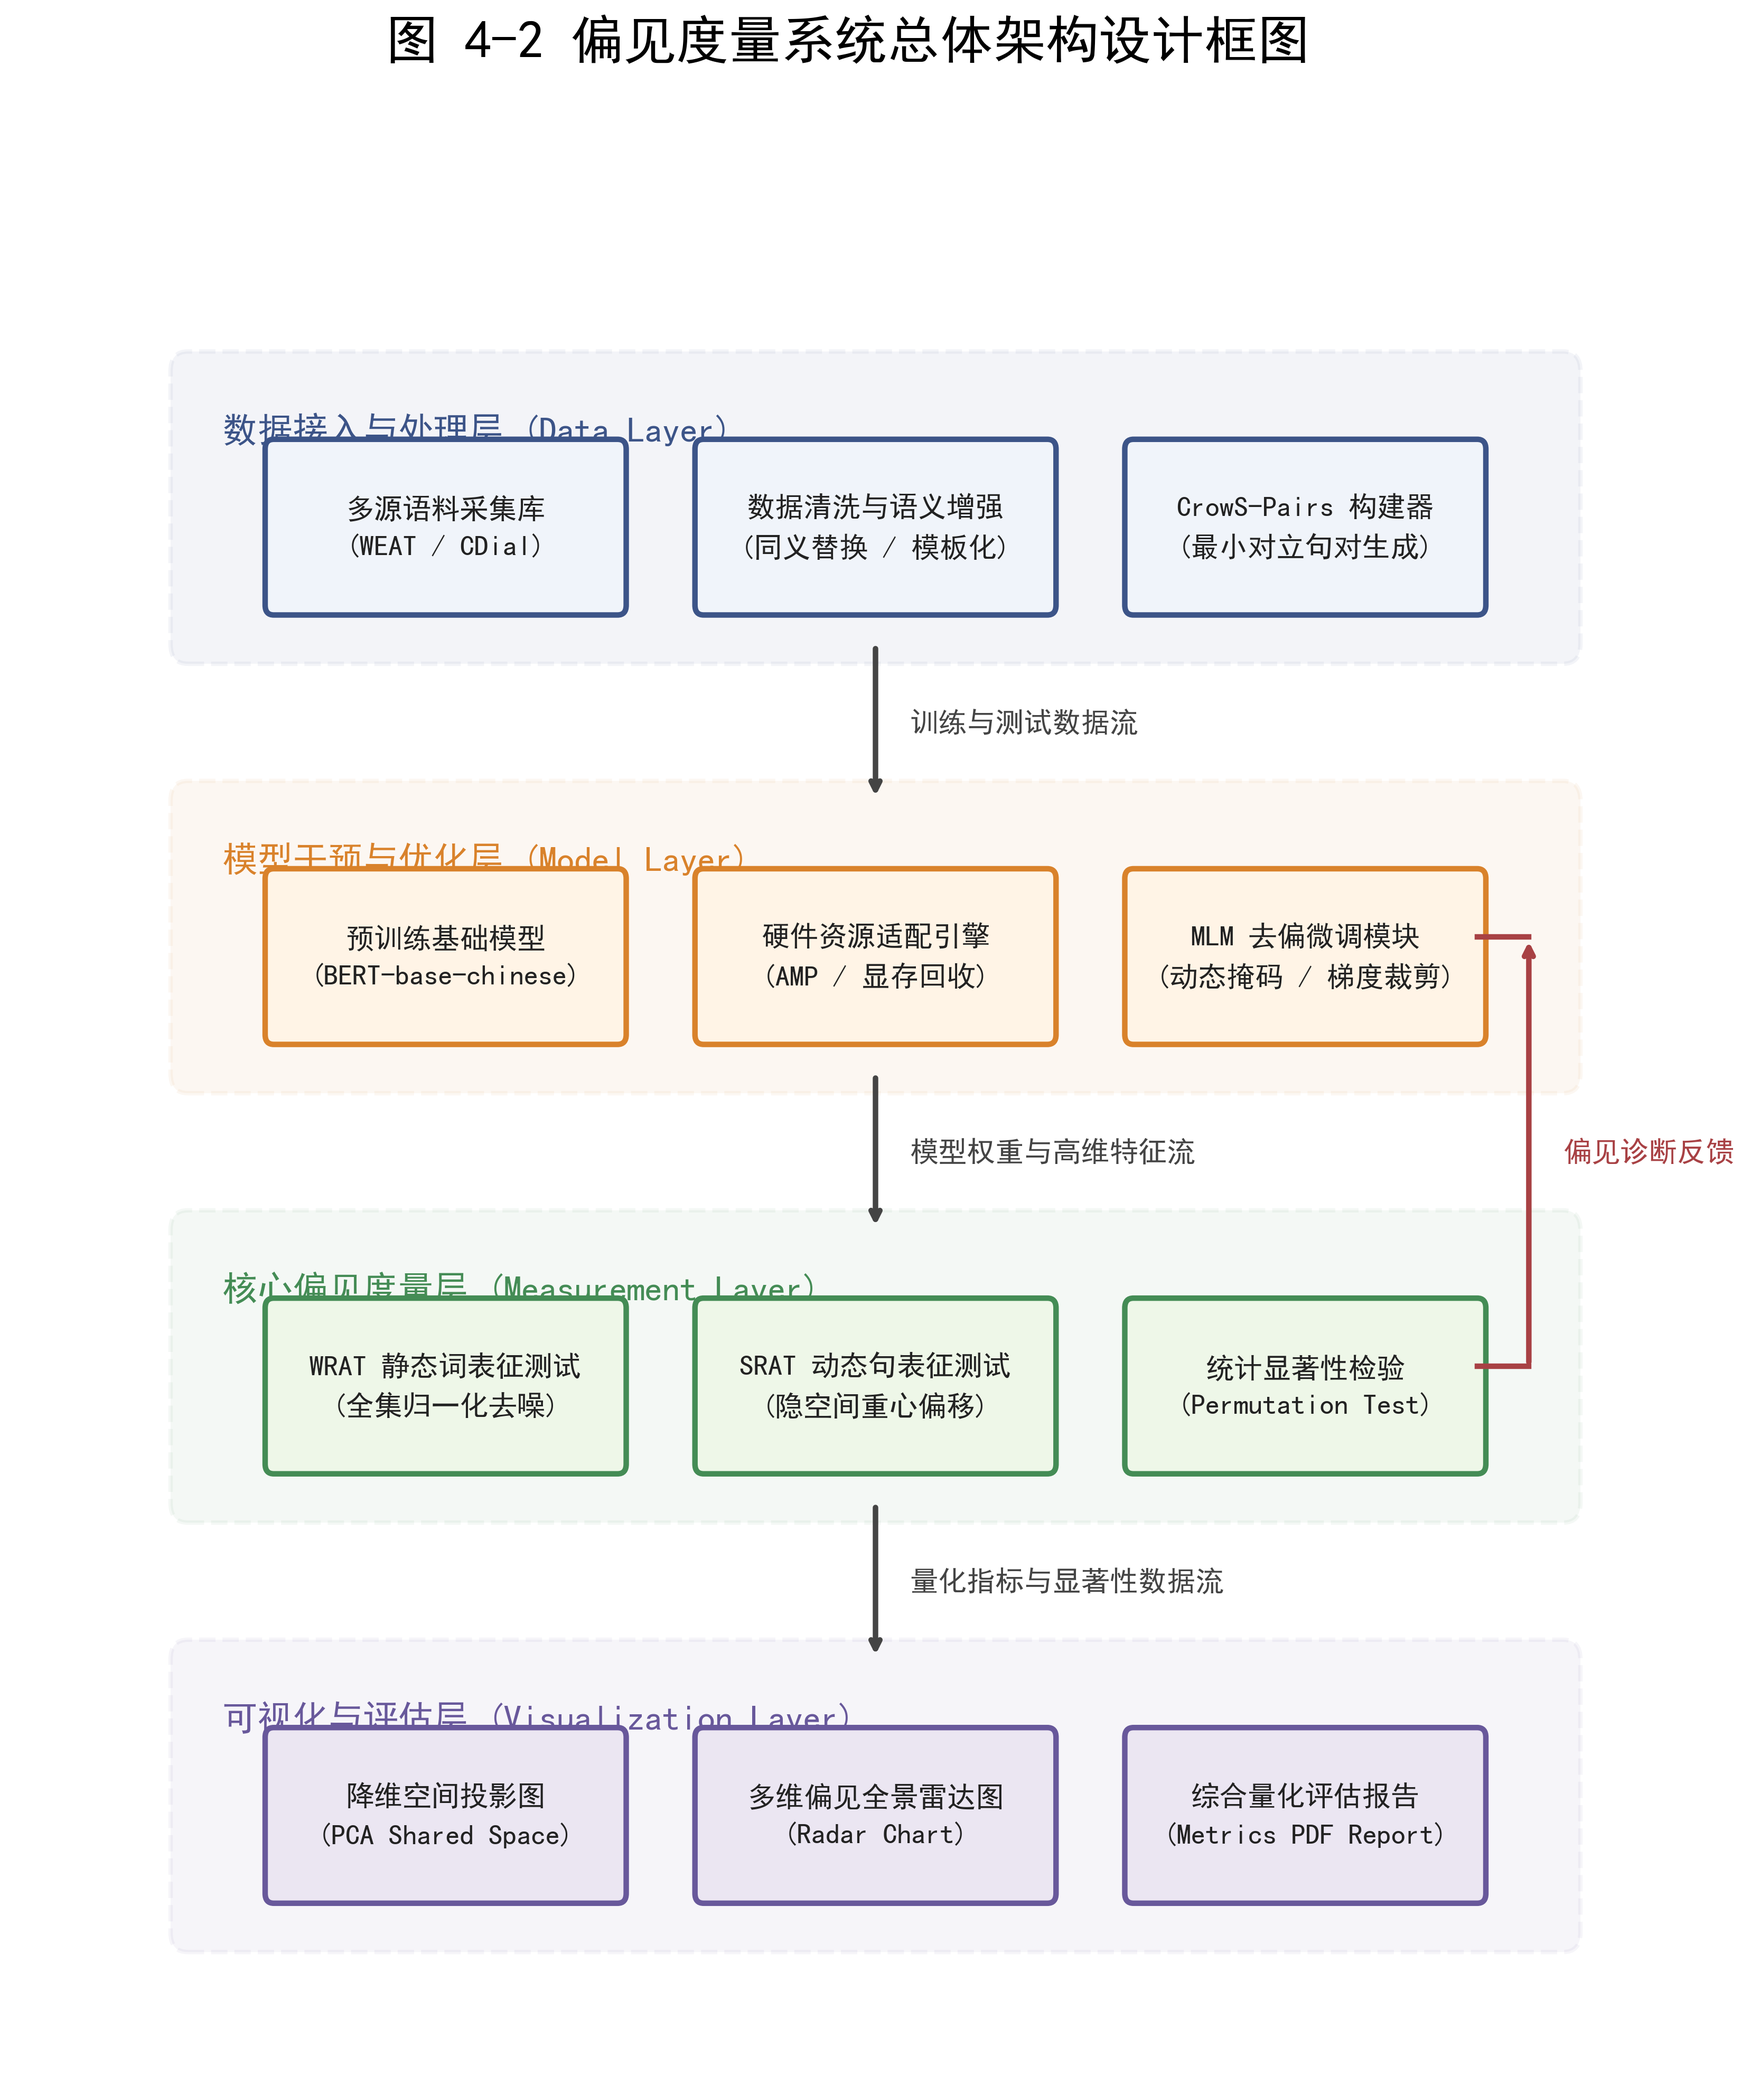
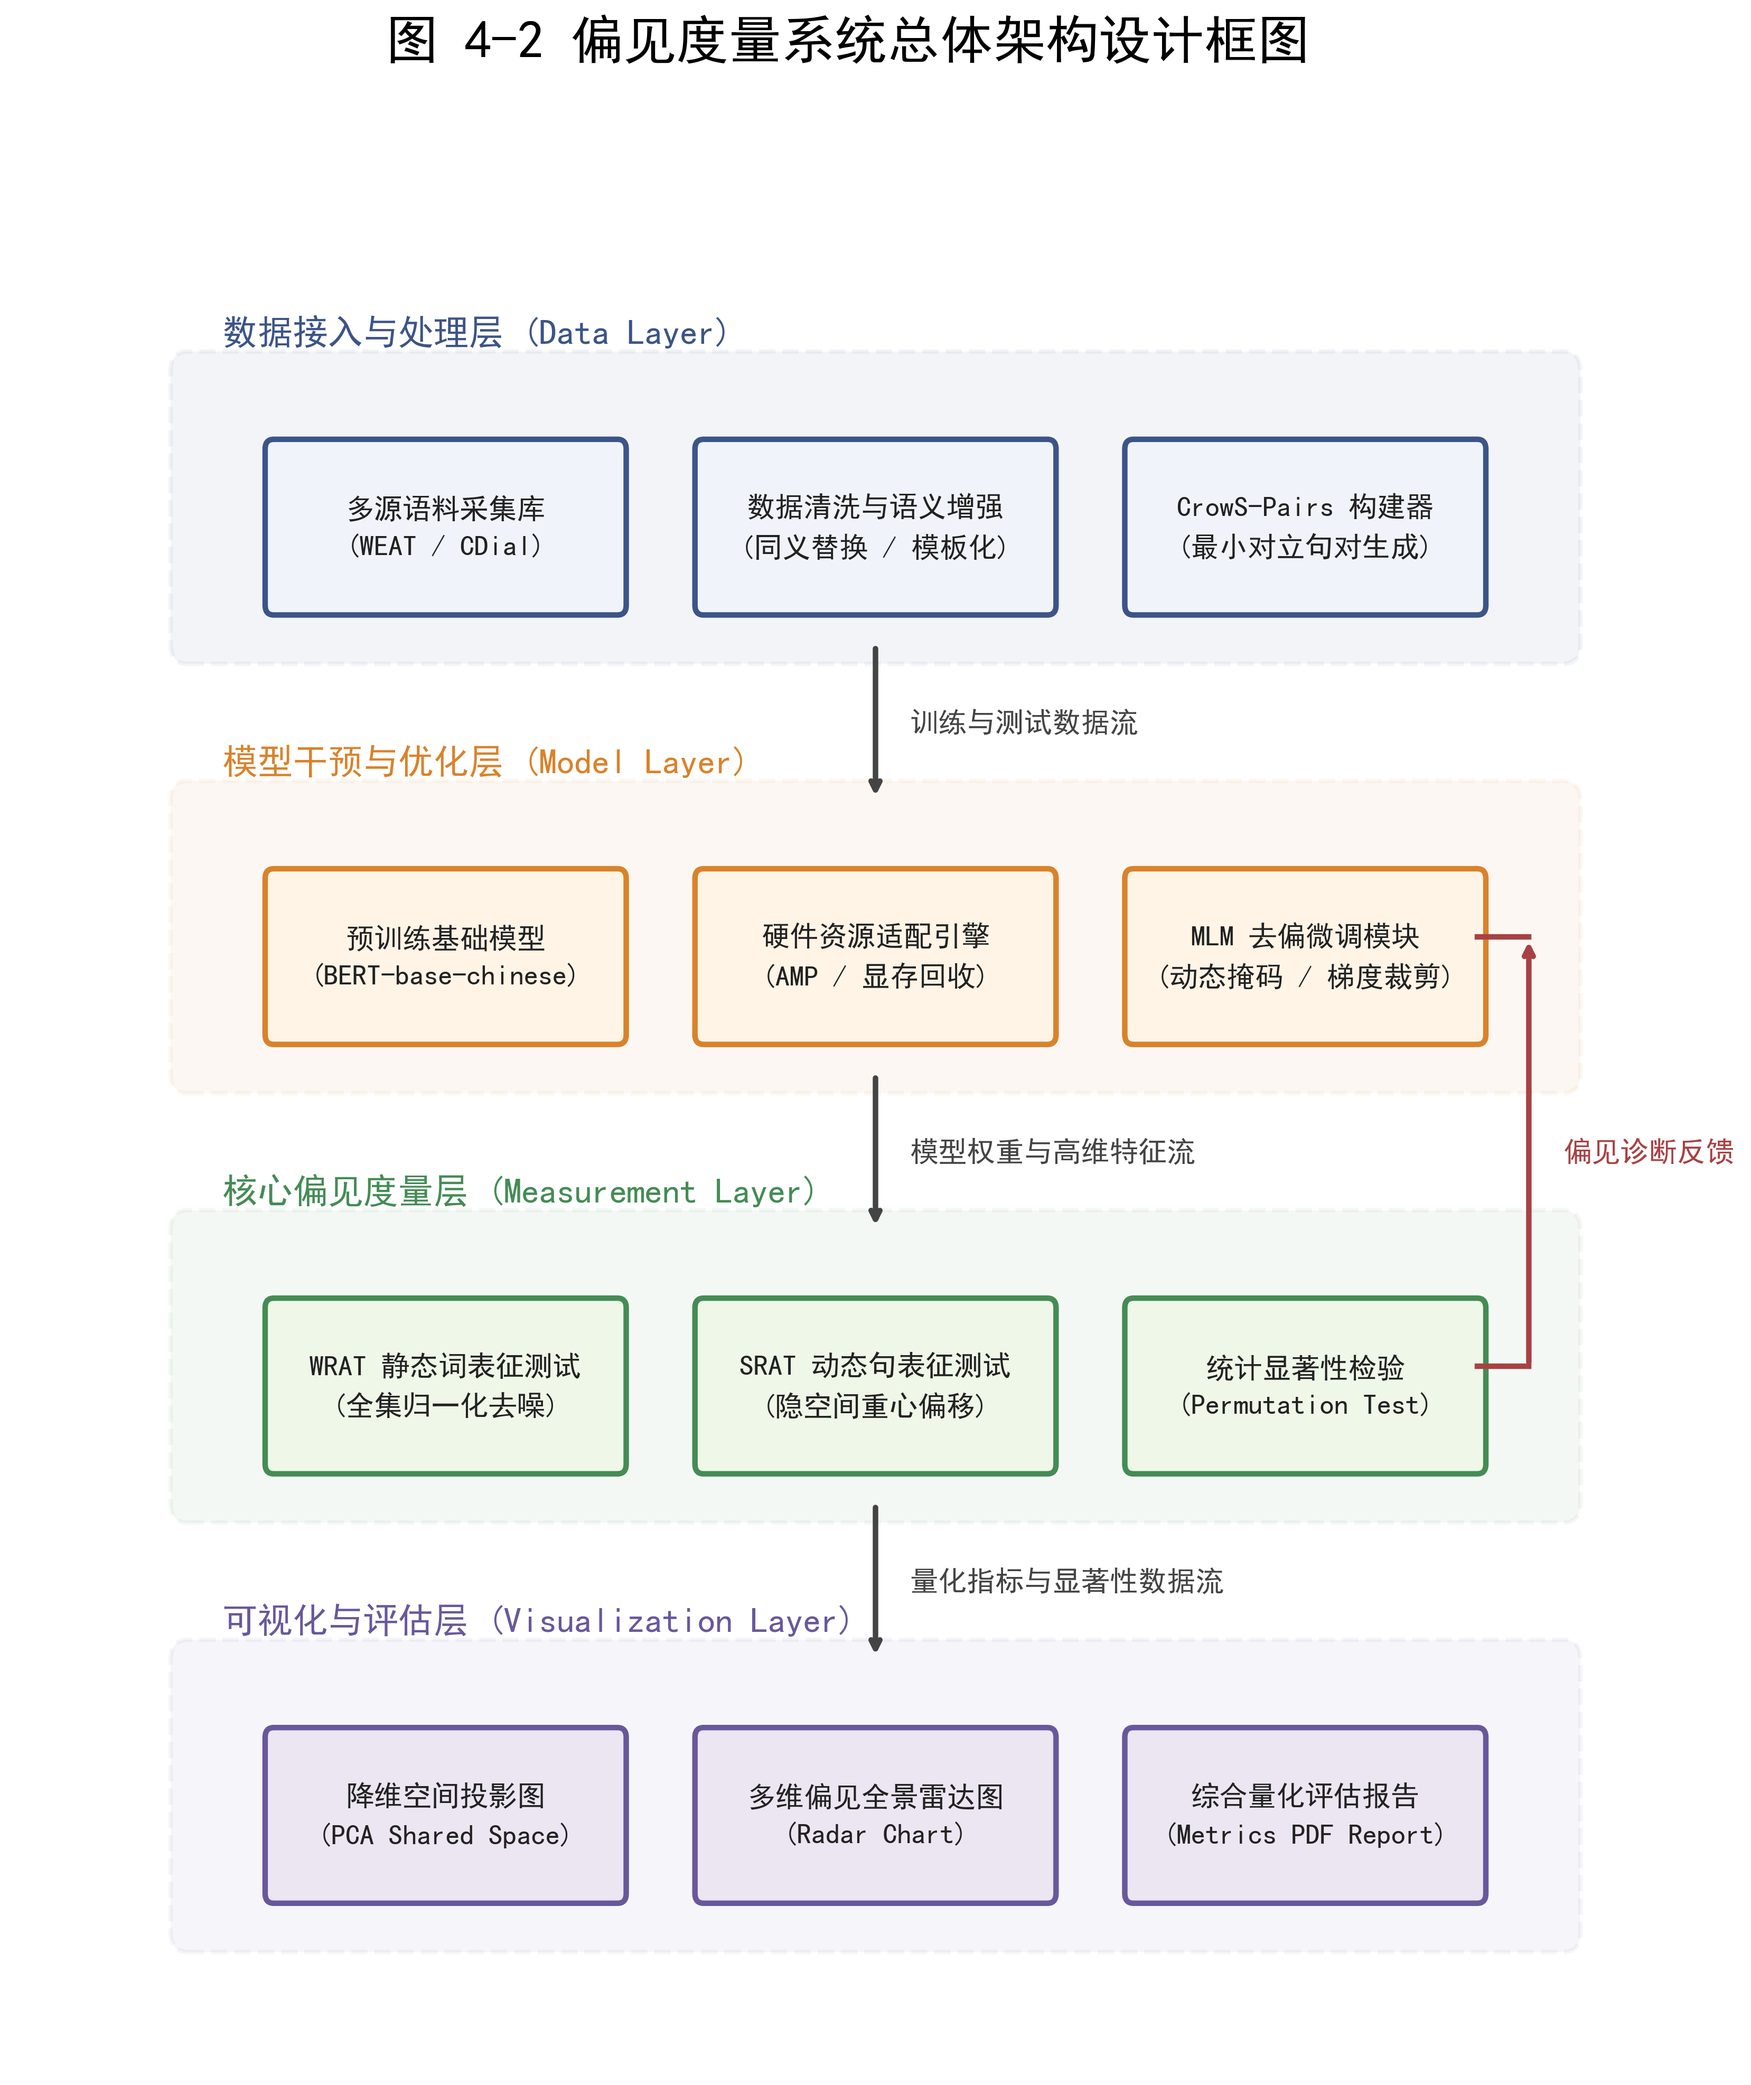
Adjust layer titles position to avoid overlapping with borders

diff --git a/generate_system_architecture.py b/generate_system_architecture.py
@@ -25,8 +25,8 @@ def draw_layer_bg(y_center, h, title, color):
         linestyle='--', lw=2, zorder=0
     )
     ax.add_patch(rect)
-    # 左上角标明层级名称
-    ax.text(x_center - w/2 + 2, y_center + h/2 - 3, title, fontsize=16, fontweight='bold', color=color, ha='left', va='center', zorder=1)
+    # 左上角标明层级名称，将 y 坐标向上偏移 2 个单位，避免与虚线框重合
+    ax.text(x_center - w/2 + 2, y_center + h/2 + 2, title, fontsize=16, fontweight='bold', color=color, ha='left', va='center', zorder=1)
 
 def draw_box(x, y, w, h, text, facecolor, edgecolor, fontsize=13, zorder=2):
     rect = patches.FancyBboxPatch(
